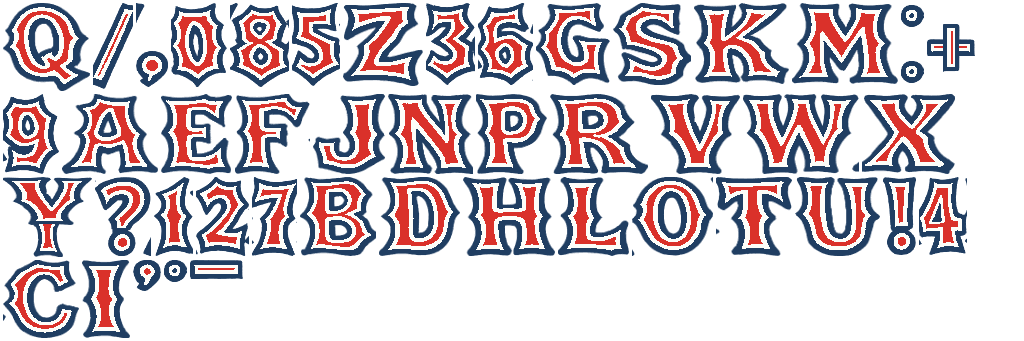
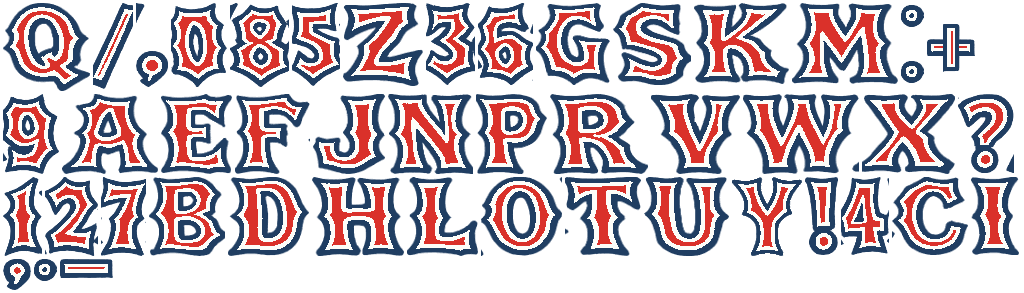
Real Y from the complete alphabet sheet, replacing the grafted one
The third sheet has the whole alphabet including the Y that neither of the
first two drew, so the graft goes and the Y is now the real letterform.

It is a narrower cut of the same face — measured across the nine letters all
the sources share, it runs 22-31% narrower relative to cap height (mean -25%),
so taking the whole alphabet from it would restyle the HUD. Set into SKY
BRIDGE beside sheet 1's letters, its Y at natural width reads better than
either the graft or the same Y stretched to match; at 0.875 w/cap it sits
inside the range the other letters already span. So sheet 1 still supplies the
letters and sheet 3 supplies only the Y.

Keying it needed a different approach from the scans. Those are transparent, so
their alpha IS the ink mask; this one is a flat render on cream paper with no
alpha, and a colour threshold hollows every glyph out because the paper and the
white inline inside each letter are only a few levels apart. The paper is
flooded inward from the border instead — the inline is enclosed by the navy
outline, so the flood can't reach it — and alpha comes from colour distance
only where the flood got, which keeps the outer edge anti-aliased. Verified:
the Y's ink splits navy .42 / red .25 / white .32 against .46 / .23 / .31 for
the letters around it, so the inline came through intact.

Nothing else moves: 45 glyphs, all five level names and 45 real HUD strings
still render with no substituted characters, the editor still opens, no
console errors.
[…]

diff --git a/src/hudfont-data.ts b/src/hudfont-data.ts
@@ -6,52 +6,52 @@
 /** [x, y, w, h, topOffsetBelowCapLine], all in atlas pixels. */
 export type HudGlyph = readonly [number, number, number, number, number];
 
-export const HUD_ATLAS = { w: 1024, h: 341, cap: 80 } as const;
+export const HUD_ATLAS = { w: 1024, h: 293, cap: 80 } as const;
 
 export const HUD_GLYPHS: Readonly<Record<string, HudGlyph>> = {
-  "-": [190, 260, 53, 19, 55],
+  "-": [60, 259, 53, 19, 55],
   ",": [136, 3, 32, 84, 1],
   ":": [901, 3, 23, 80, 0],
-  "!": [883, 177, 33, 78, 2],
-  "?": [95, 177, 56, 79, 0],
-  ".": [164, 260, 23, 22, 57],
-  "'": [133, 260, 28, 31, 56],
+  "!": [805, 177, 33, 78, 2],
+  "?": [958, 94, 56, 79, 0],
+  ".": [34, 259, 23, 22, 57],
+  "'": [3, 259, 28, 31, 56],
   "/": [93, 3, 40, 86, -2],
   "+": [927, 3, 48, 80, 0],
   "0": [171, 3, 56, 84, 0],
-  "1": [154, 177, 39, 79, 1],
-  "2": [196, 177, 53, 79, 0],
+  "1": [3, 177, 39, 79, 1],
+  "2": [45, 177, 53, 79, 0],
   "3": [426, 3, 49, 82, 1],
-  "4": [919, 177, 48, 78, 1],
+  "4": [841, 177, 48, 78, 1],
   "5": [292, 3, 48, 83, 0],
   "6": [478, 3, 55, 82, -1],
-  "7": [252, 177, 45, 79, -1],
+  "7": [101, 177, 45, 79, -1],
   "8": [230, 3, 59, 84, -1],
   "9": [3, 94, 56, 80, -1],
   A: [62, 94, 96, 80, 0],
-  B: [300, 177, 76, 79, 1],
-  C: [3, 260, 76, 78, 2],
-  D: [379, 177, 81, 79, 1],
+  B: [149, 177, 76, 79, 1],
+  C: [892, 177, 76, 78, 2],
+  D: [228, 177, 81, 79, 1],
   E: [161, 94, 71, 80, 0],
   F: [235, 94, 75, 80, 0],
   G: [536, 3, 74, 82, 0],
-  H: [463, 177, 92, 79, 0],
-  I: [82, 260, 48, 78, 0],
+  H: [312, 177, 92, 79, 0],
+  I: [971, 177, 48, 78, 0],
   J: [313, 94, 72, 80, 0],
   K: [694, 3, 95, 81, -1],
-  L: [558, 177, 71, 79, 0],
+  L: [407, 177, 71, 79, 0],
   M: [792, 3, 106, 81, -1],
   N: [388, 94, 85, 80, 0],
-  O: [632, 177, 81, 79, 1],
+  O: [481, 177, 81, 79, 1],
   P: [476, 94, 71, 80, 0],
   Q: [3, 3, 87, 88, 0],
   R: [550, 94, 98, 80, 0],
   S: [613, 3, 78, 82, -1],
-  T: [716, 177, 76, 79, 0],
-  U: [795, 177, 85, 79, 0],
+  T: [565, 177, 76, 79, 0],
+  U: [644, 177, 85, 79, 0],
   V: [651, 94, 89, 80, -1],
   W: [743, 94, 116, 80, 0],
   X: [862, 94, 93, 80, 0],
-  Y: [3, 177, 89, 80, 0],
+  Y: [732, 177, 70, 79, 0],
   Z: [343, 3, 80, 83, 0],
 };

diff --git a/CREDITS.md b/CREDITS.md
@@ -36,19 +36,34 @@ node tools/bake-props.mjs <dir-of-glbs>... > src/prop-data.ts
 ## HUD display face
 
 Not third-party either, but worth recording where it came from. The HUD
-lettering is cut from two hand-drawn alphabet sheets, kept at full resolution
-in `art/hudfont-sheet1.png` and `art/hudfont-sheet2.png`. They are the only
-copy of that artwork, which is why the source sits in the repository rather
-than just the atlas built from it.
+lettering is cut from three hand-drawn alphabet sheets, kept at full resolution
+in `art/hudfont-sheet{1,2,3}.png`. They are the only copy of that artwork,
+which is why the source sits in the repository rather than just the atlas built
+from it.
 
 ```
-node tools/bake-hudfont.mjs art/hudfont-sheet1.png art/hudfont-sheet2.png
+node tools/bake-hudfont.mjs art/hudfont-sheet{1,2,3}.png
 ```
 
-That writes `public/hudfont.png` and `src/hudfont-data.ts`. The sheets carry
-duplicates (F, G, I, L and R are each drawn twice) and two gaps: there is no Y
-and no `+`, both of which the baker grafts from the face's own strokes — the Y
-from its V over its I, the `+` from crossed copies of its dash.
+That writes `public/hudfont.png` and `src/hudfont-data.ts`. The three sheets
+overlap rather than divide neatly, so the baker names one source cell per
+character:
+
+| Sheet | Holds | Used for |
+| --- | --- | --- |
+| 1 | A–X and Z, some drawn twice | every letter but Y — it is the widest cut |
+| 2 | a partial alphabet, digits, punctuation | the digits and all the punctuation |
+| 3 | the complete alphabet and digits | Y, the one letter sheet 1 never drew |
+
+Sheets 1 and 2 are scans on transparent backgrounds, so their alpha channel is
+already the ink mask. Sheet 3 is a flat render on cream paper with no alpha at
+all, and a colour threshold can't key it — the paper and the white inline
+inside each letter are only a few levels apart, so thresholding hollows every
+glyph out. The paper is flooded inward from the border instead; the inline is
+enclosed by the navy outline, so the flood can never reach it.
+
+The only mark still built rather than cut is `+`, which the trick plate needs
+to join tricks and no sheet draws: crossed copies of the face's own dash.
 
 ## Everything else
 
